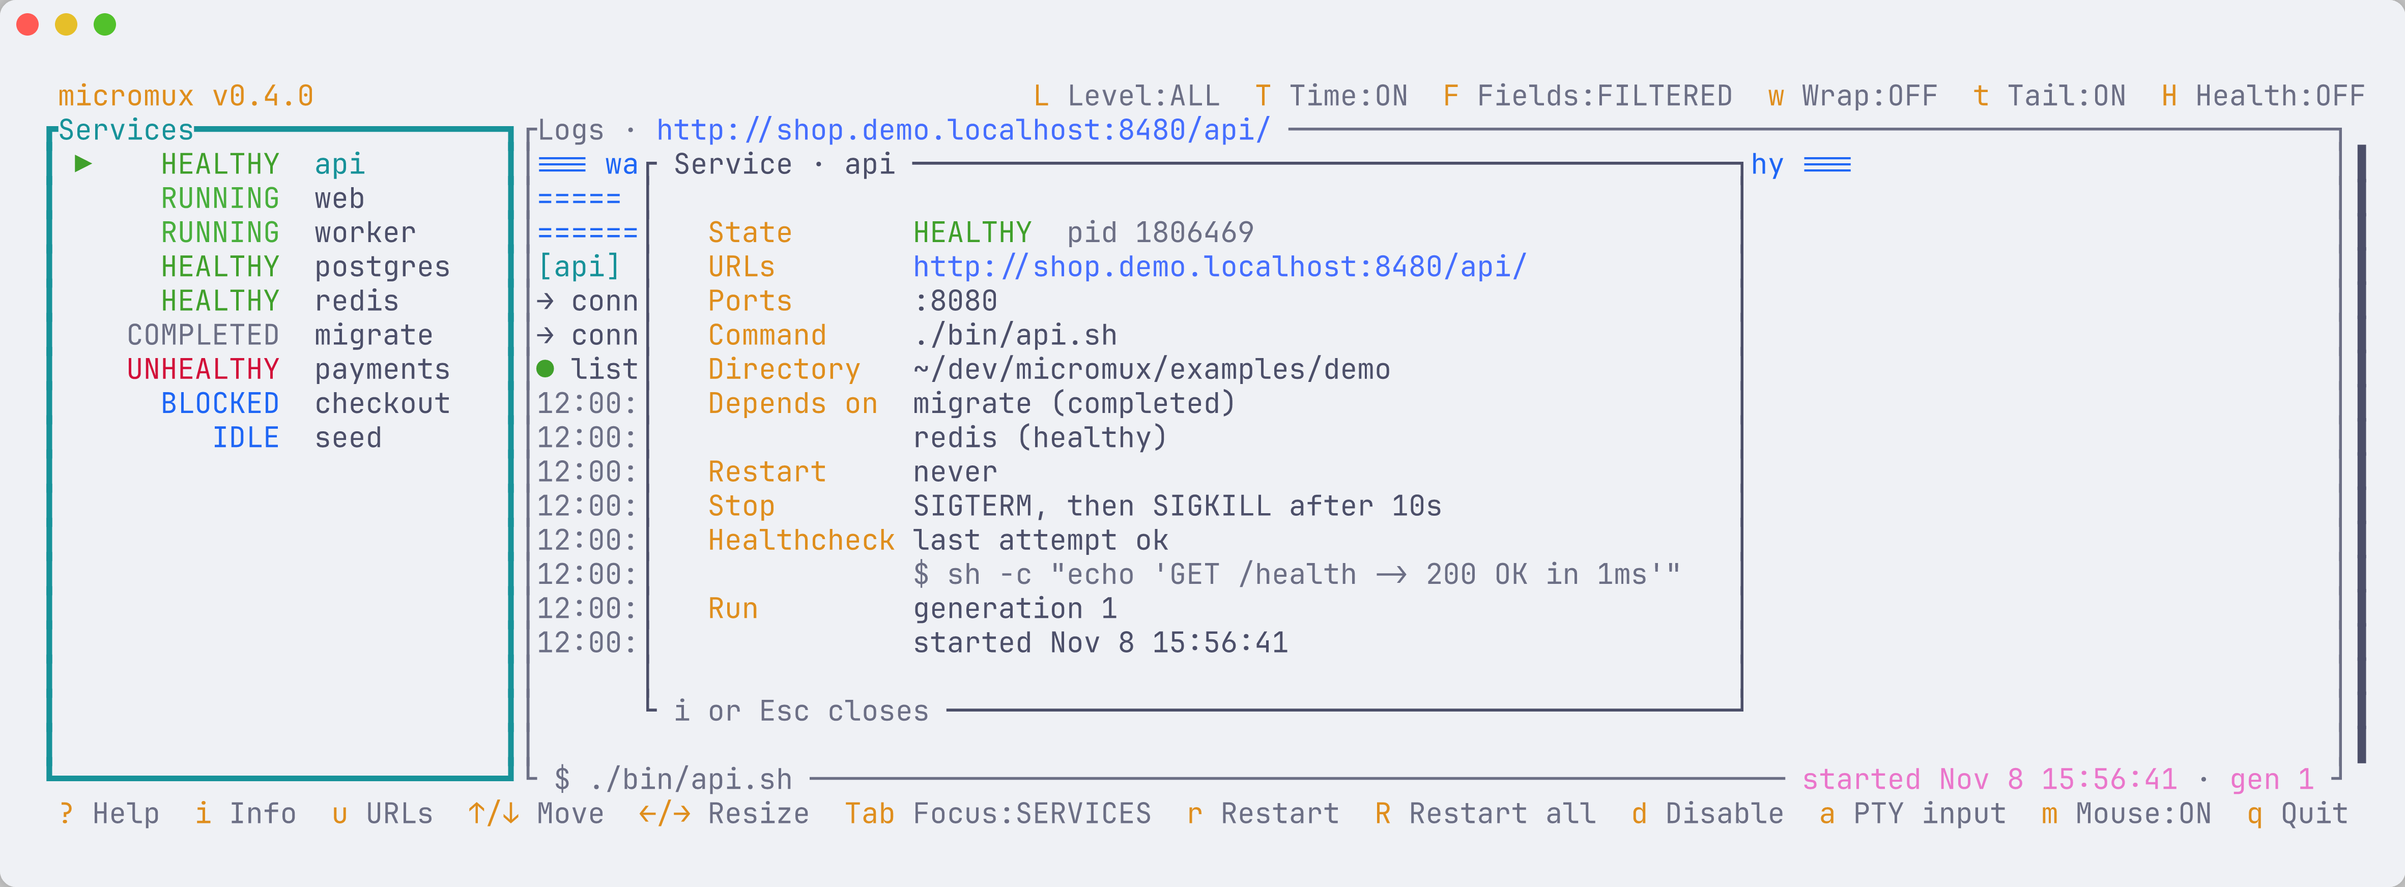
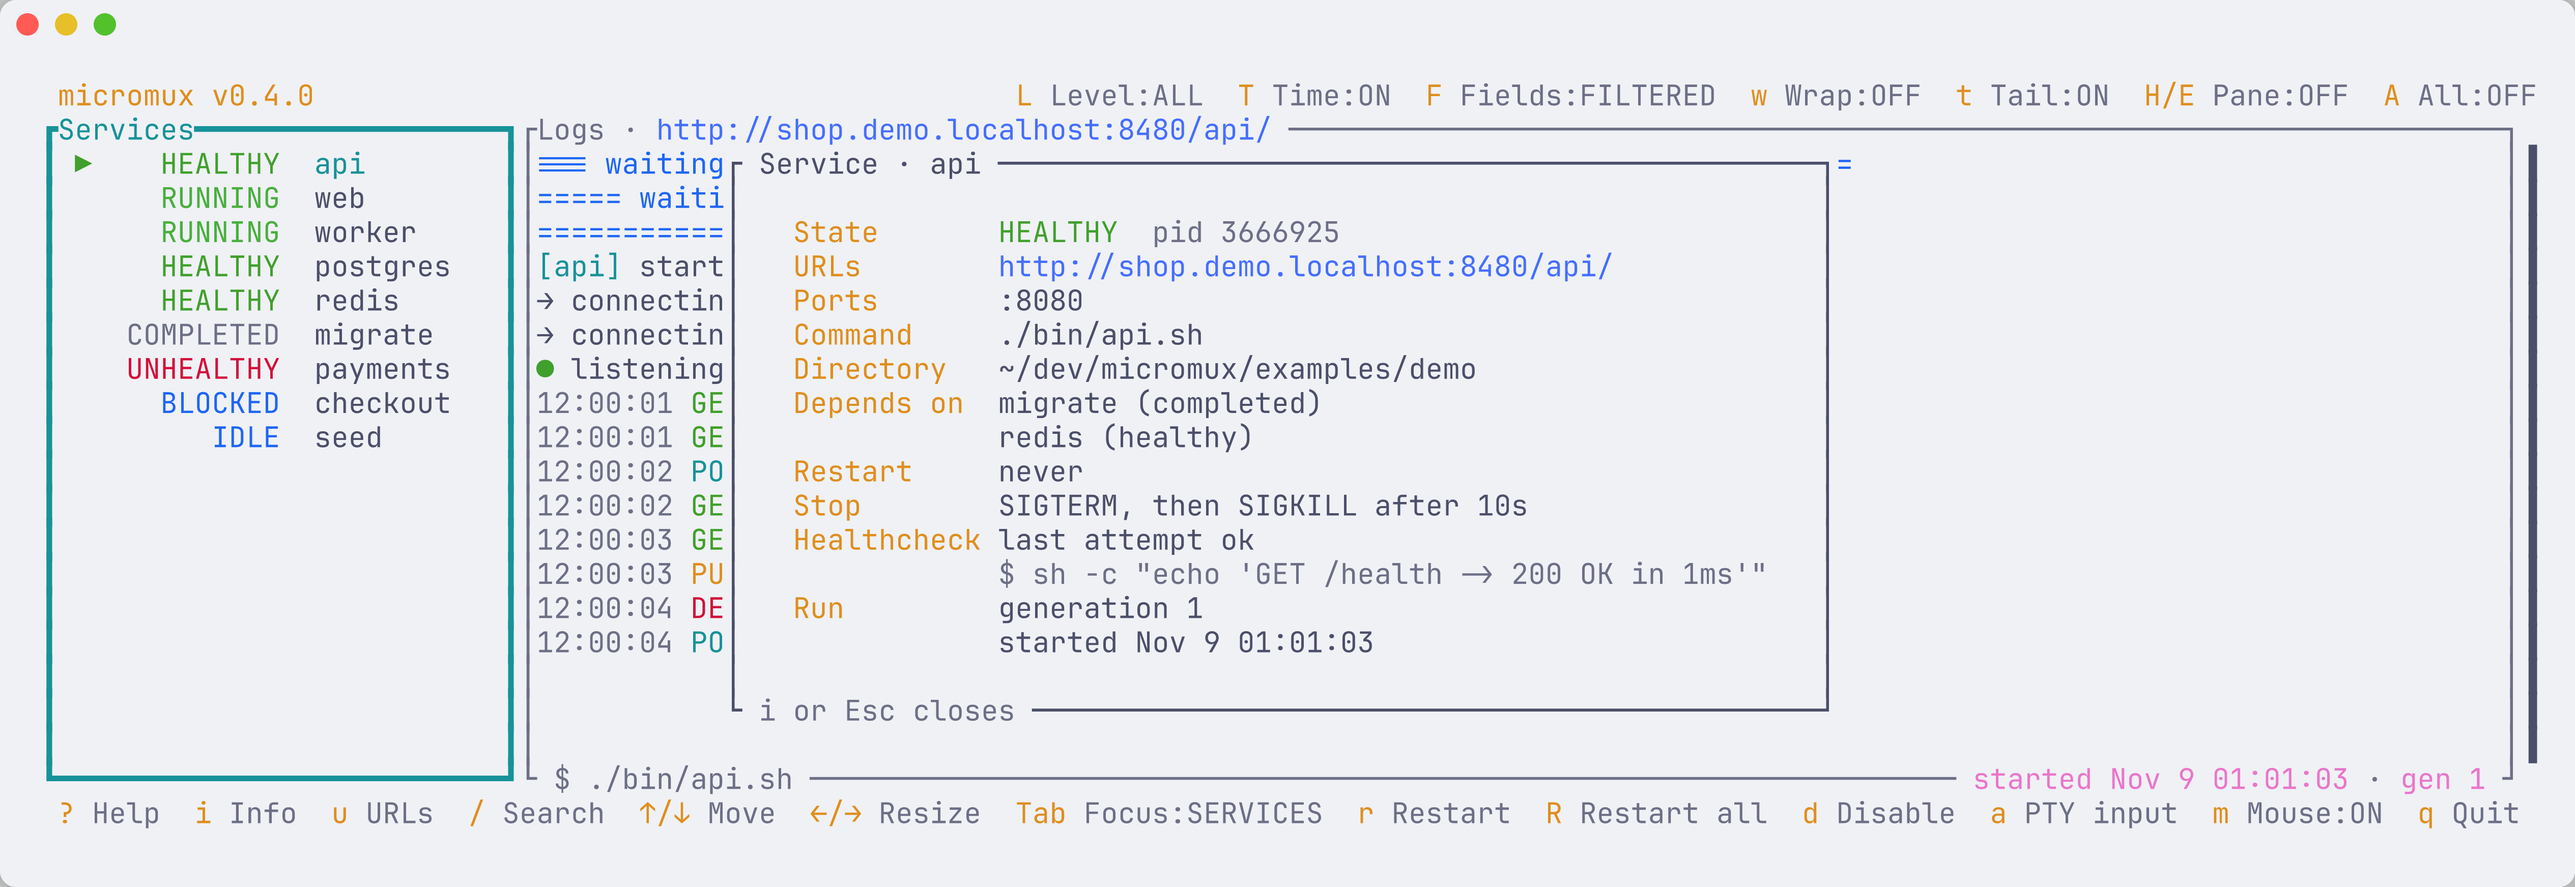
docs(tui): regenerate the screenshots at 146 columns (#68)
* docs(tui): regenerate the screenshots at 146 columns

The footer gained the `/ Search` hint, so the capture width grows to the
narrowest that keeps its key hints on one row again. The header now shows
the `H/E Pane` and `A All` hints.

* docs(agents): regenerate the tui screenshots when key hints change

* docs(agents): regenerate the screenshots on any visual tui change

diff --git a/crates/micromux-screenshot/src/scenario.rs b/crates/micromux-screenshot/src/scenario.rs
@@ -17,7 +17,7 @@ pub(crate) struct Scenario {
 
 /// Terminal width every scenario captures at: the narrowest that keeps the footer's key hints on
 /// one row, so the text renders as large as it can in the README.
-const COLS: NonZeroU16 = NonZeroU16::new(136).unwrap();
+const COLS: NonZeroU16 = NonZeroU16::new(146).unwrap();
 /// Terminal height every scenario captures at.
 const ROWS: NonZeroU16 = NonZeroU16::new(22).unwrap();
 

diff --git a/AGENTS.md b/AGENTS.md
@@ -45,3 +45,11 @@ sentence naming the config key, command or flag. CI, tooling, tests, refactors
 and dependency bumps get no entry. A release moves the Unreleased entries under
 the new `## vX.Y.Z` heading before the bump, which commits `CHANGELOG.md`
 through `.bumpversion.toml`.
+
+## TUI screenshots
+
+Any visual change to the TUI regenerates the documentation screenshots with
+`task docs:screenshots` and checks every image in `docs/static/images`: the
+header and the footer must each stay on one row. When the footer wraps, raise
+`COLS` in `crates/micromux-screenshot/src/scenario.rs` to the narrowest width
+that keeps it on one row, plus one column of margin.
